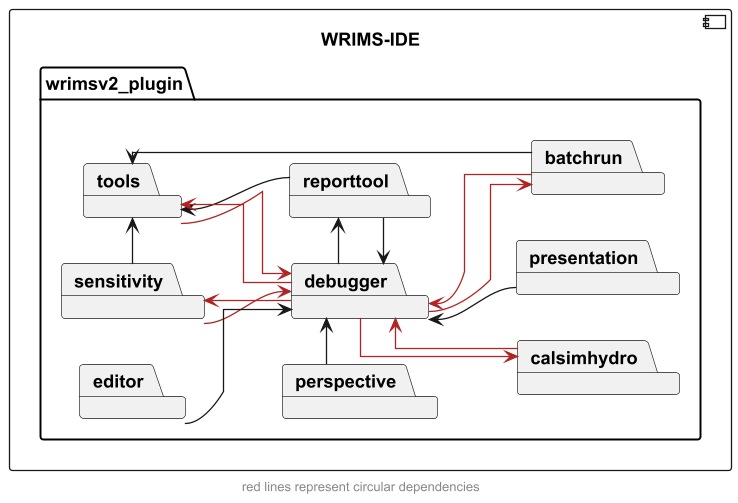
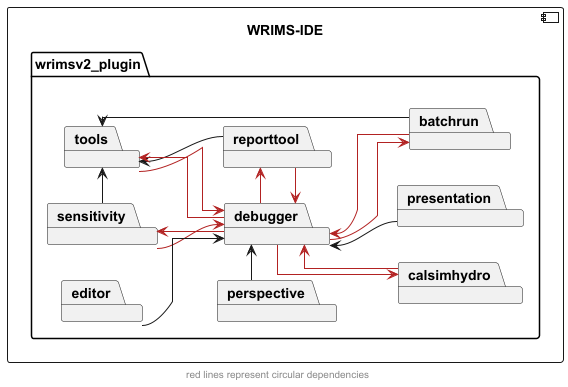
Updated dependency diagrams, updated generation script

diff --git a/dep_analysis.py b/dep_analysis.py
@@ -33,35 +33,40 @@ def extract_wrimsv2_dependencies(html_content):
 
     return dependencies
 
-with open(sys.argv[1], 'r') as file:
-    # Read the HTML content from the file
-    html_content = file.read()
-# Extract dependencies
-wrimsv2_dependencies = extract_wrimsv2_dependencies(html_content)
+def main():
+    with open(sys.argv[1], 'r') as file:
+        # Read the HTML content from the file
+        html_content = file.read()
+    # Extract dependencies
+    wrimsv2_dependencies = extract_wrimsv2_dependencies(html_content)
 
-# Print the results
-for package, deps in wrimsv2_dependencies.items():
-    print(f"{package}:")
-    for dep in deps:
-        print(f"  - {dep}")
-
-# write the results to file
-splitter = "\\"
-path = sys.argv[1].split(splitter)
-if (len(path) < 2):
-    path = sys.argv[1].split("/")
-    splitter = "/"
-
-result = ""
-pathname = ""
-
-for pathval in path[:-1]:
-    pathname += pathval
-    pathname += splitter
-
-with open(pathname + "dependencies.txt", 'w') as file:
+    # Print the results
     for package, deps in wrimsv2_dependencies.items():
-        result += f"\n{package}:"
+        print(f"{package}:")
         for dep in deps:
-            result += f"\n  - {dep}"
-    file.write(result)
+            print(f"  - {dep}")
+
+    # write the results to file
+    splitter = "\\"
+    path = sys.argv[1].split(splitter)
+    if (len(path) < 2):
+        path = sys.argv[1].split("/")
+        splitter = "/"
+
+    result = ""
+    pathname = ""
+
+    for pathval in path[:-1]:
+        pathname += pathval
+        pathname += splitter
+
+    with open(pathname + "dependencies.txt", 'w') as file:
+        for package, deps in wrimsv2_dependencies.items():
+            result += f"\n{package}:"
+            for dep in deps:
+                result += f"\n  - {dep}"
+        file.write(result)
+
+if __name__ == "__main__":
+    # This block is executed when the script is run directly
+    main()
